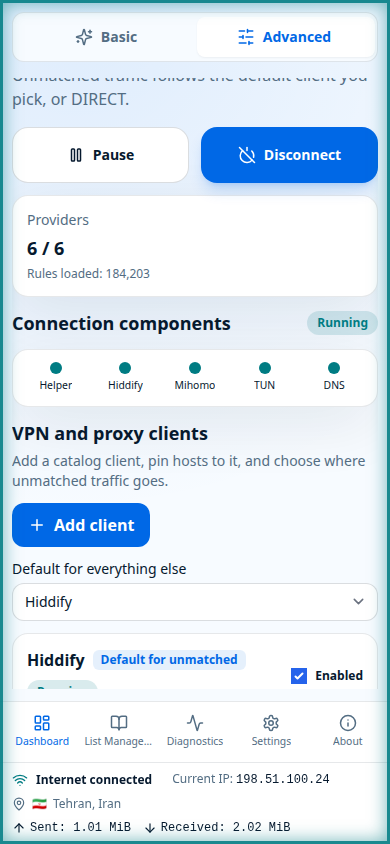
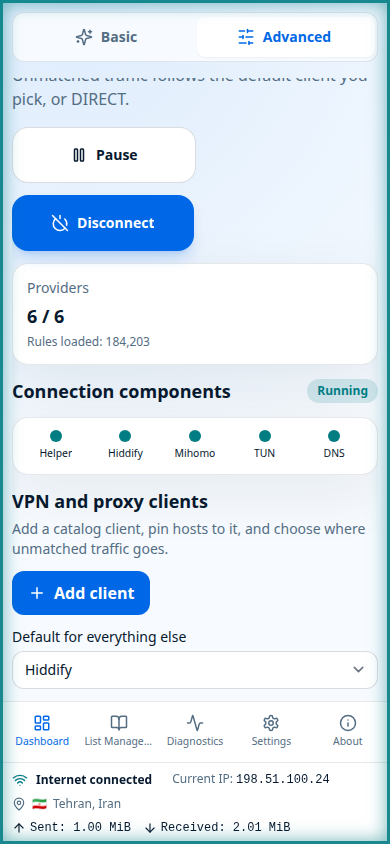
Fix Windows 401 readiness flake and refresh README shots.
Map controller 401 to Unauthorized before error_for_status, and loosen the test budget so Wine/Windows first-request latency is not treated as a hang.

diff --git a/crates/iran-split-mihomo/src/lib.rs b/crates/iran-split-mihomo/src/lib.rs
@@ -787,19 +787,26 @@ impl ControllerClient {
             .bearer_auth(&self.secret)
     }
 
+    fn require_controller_ok(
+        response: reqwest::Response,
+    ) -> Result<reqwest::Response, MihomoError> {
+        if response.status() == StatusCode::UNAUTHORIZED {
+            return Err(MihomoError::Unauthorized);
+        }
+        Ok(response.error_for_status()?)
+    }
+
     /// Reads the running Mihomo version.
     ///
     /// # Errors
     ///
     /// Returns an error when the controller request or response decoding fails.
     pub async fn version(&self) -> Result<VersionResponse, MihomoError> {
-        Ok(self
-            .get("/version")
-            .send()
-            .await?
-            .error_for_status()?
-            .json()
-            .await?)
+        Ok(
+            Self::require_controller_ok(self.get("/version").send().await?)?
+                .json()
+                .await?,
+        )
     }
 
     /// Reads session upload and download totals from the controller.
@@ -827,13 +834,11 @@ impl ControllerClient {
     }
 
     async fn connections_snapshot(&self) -> Result<ConnectionsSnapshot, MihomoError> {
-        Ok(self
-            .get("/connections")
-            .send()
-            .await?
-            .error_for_status()?
-            .json()
-            .await?)
+        Ok(
+            Self::require_controller_ok(self.get("/connections").send().await?)?
+                .json()
+                .await?,
+        )
     }
 
     /// Reads the active Mihomo configuration from the controller.
@@ -842,13 +847,11 @@ impl ControllerClient {
     ///
     /// Returns an error when the controller request or response decoding fails.
     pub async fn configs(&self) -> Result<Value, MihomoError> {
-        Ok(self
-            .get("/configs")
-            .send()
-            .await?
-            .error_for_status()?
-            .json()
-            .await?)
+        Ok(
+            Self::require_controller_ok(self.get("/configs").send().await?)?
+                .json()
+                .await?,
+        )
     }
 
     /// Summarizes the readiness and rule count of configured rule providers.
@@ -858,11 +861,7 @@ impl ControllerClient {
     /// Returns an error when the controller request fails, its response cannot
     /// be decoded, or it omits the provider map.
     pub async fn provider_summary(&self) -> Result<ProviderStatus, MihomoError> {
-        let value = self
-            .get("/providers/rules")
-            .send()
-            .await?
-            .error_for_status()?
+        let value = Self::require_controller_ok(self.get("/providers/rules").send().await?)?
             .json::<Value>()
             .await?;
         summarize_rule_providers(&value)
@@ -1897,8 +1896,9 @@ mod tests {
             .await
             .expect_err("401");
         assert!(
-            started.elapsed() < Duration::from_secs(2),
-            "HTTP 401 must not wait out the readiness budget"
+            started.elapsed() < Duration::from_secs(8),
+            "HTTP 401 must not wait out the readiness budget, took {:?}",
+            started.elapsed()
         );
         assert!(
             matches!(error, MihomoError::Unauthorized),

diff --git a/AGENTS.md b/AGENTS.md
@@ -101,6 +101,12 @@ If a required command fails or emits a warning from project code, fix it in the 
   `*.google.com` followed the same broken outbound. Keep a stub group for
   the named client (closed loopback SOCKS for side tunnels) and fail-close
   only `MATCH` when the default client is down.
+- A readiness test that requires `elapsed < 2s` on HTTP 401 shares the
+  controller `connect_timeout` (2s). Windows/Wine first-request latency
+  can cross that line after the 401 already mapped to Unauthorized.
+  Assert against a budget well below the 20s readiness wait (8s), and
+  map controller 401 to `MihomoError::Unauthorized` before
+  `error_for_status` so `wait_until_ready` does not sit on the timeout.
 - `cfg(windows)` code and tests never compile on the Linux host, and a
   full `--target x86_64-pc-windows-msvc` clippy from Linux dies in `ring`'s
   build script. When changing anything the Windows crates assert on
